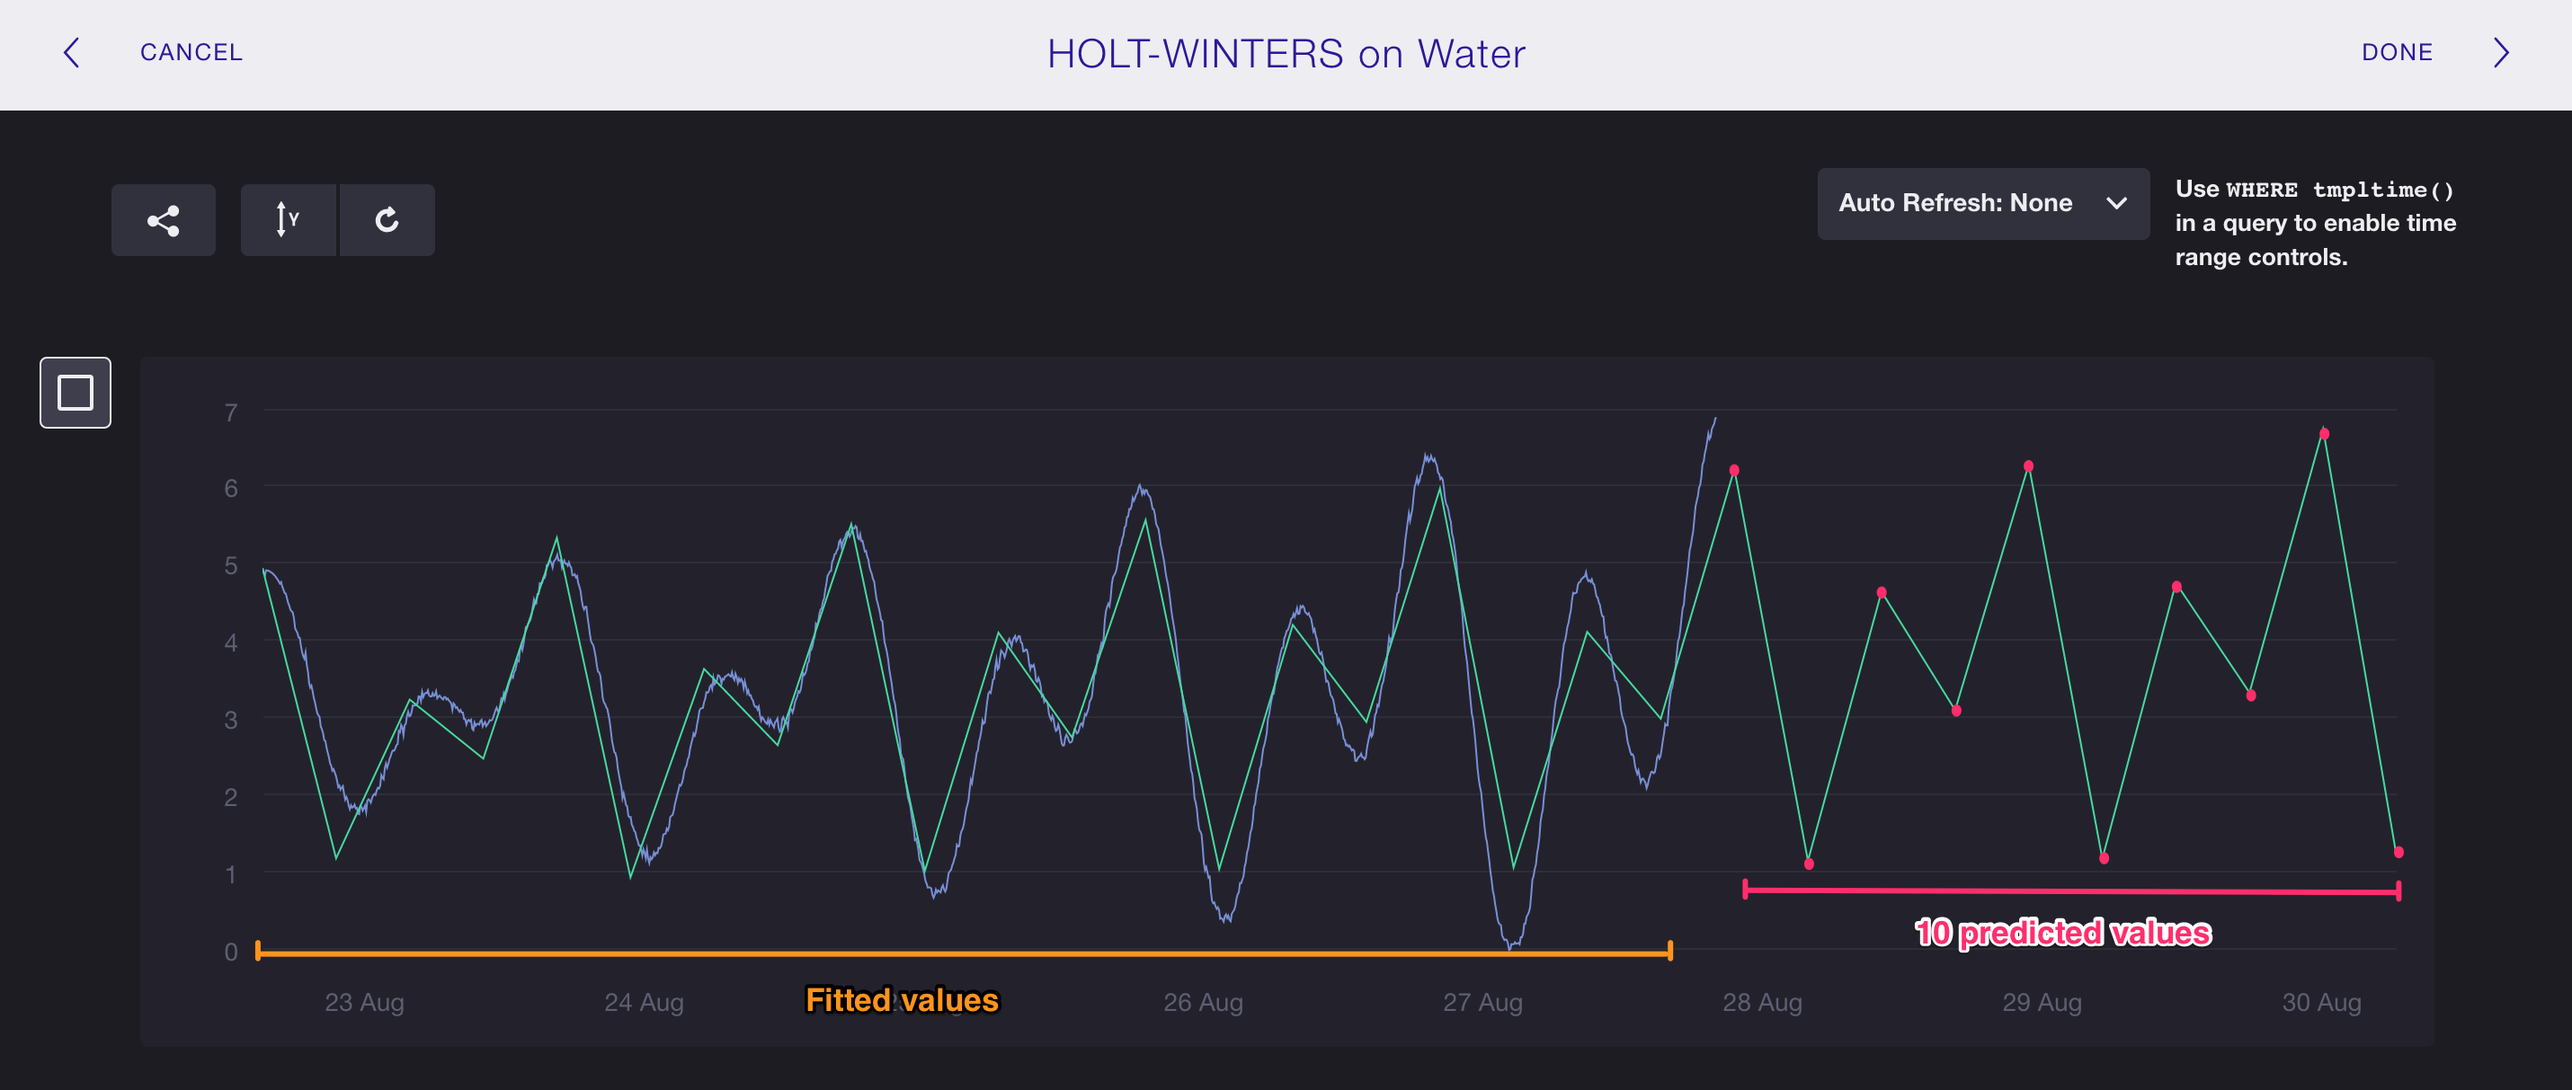
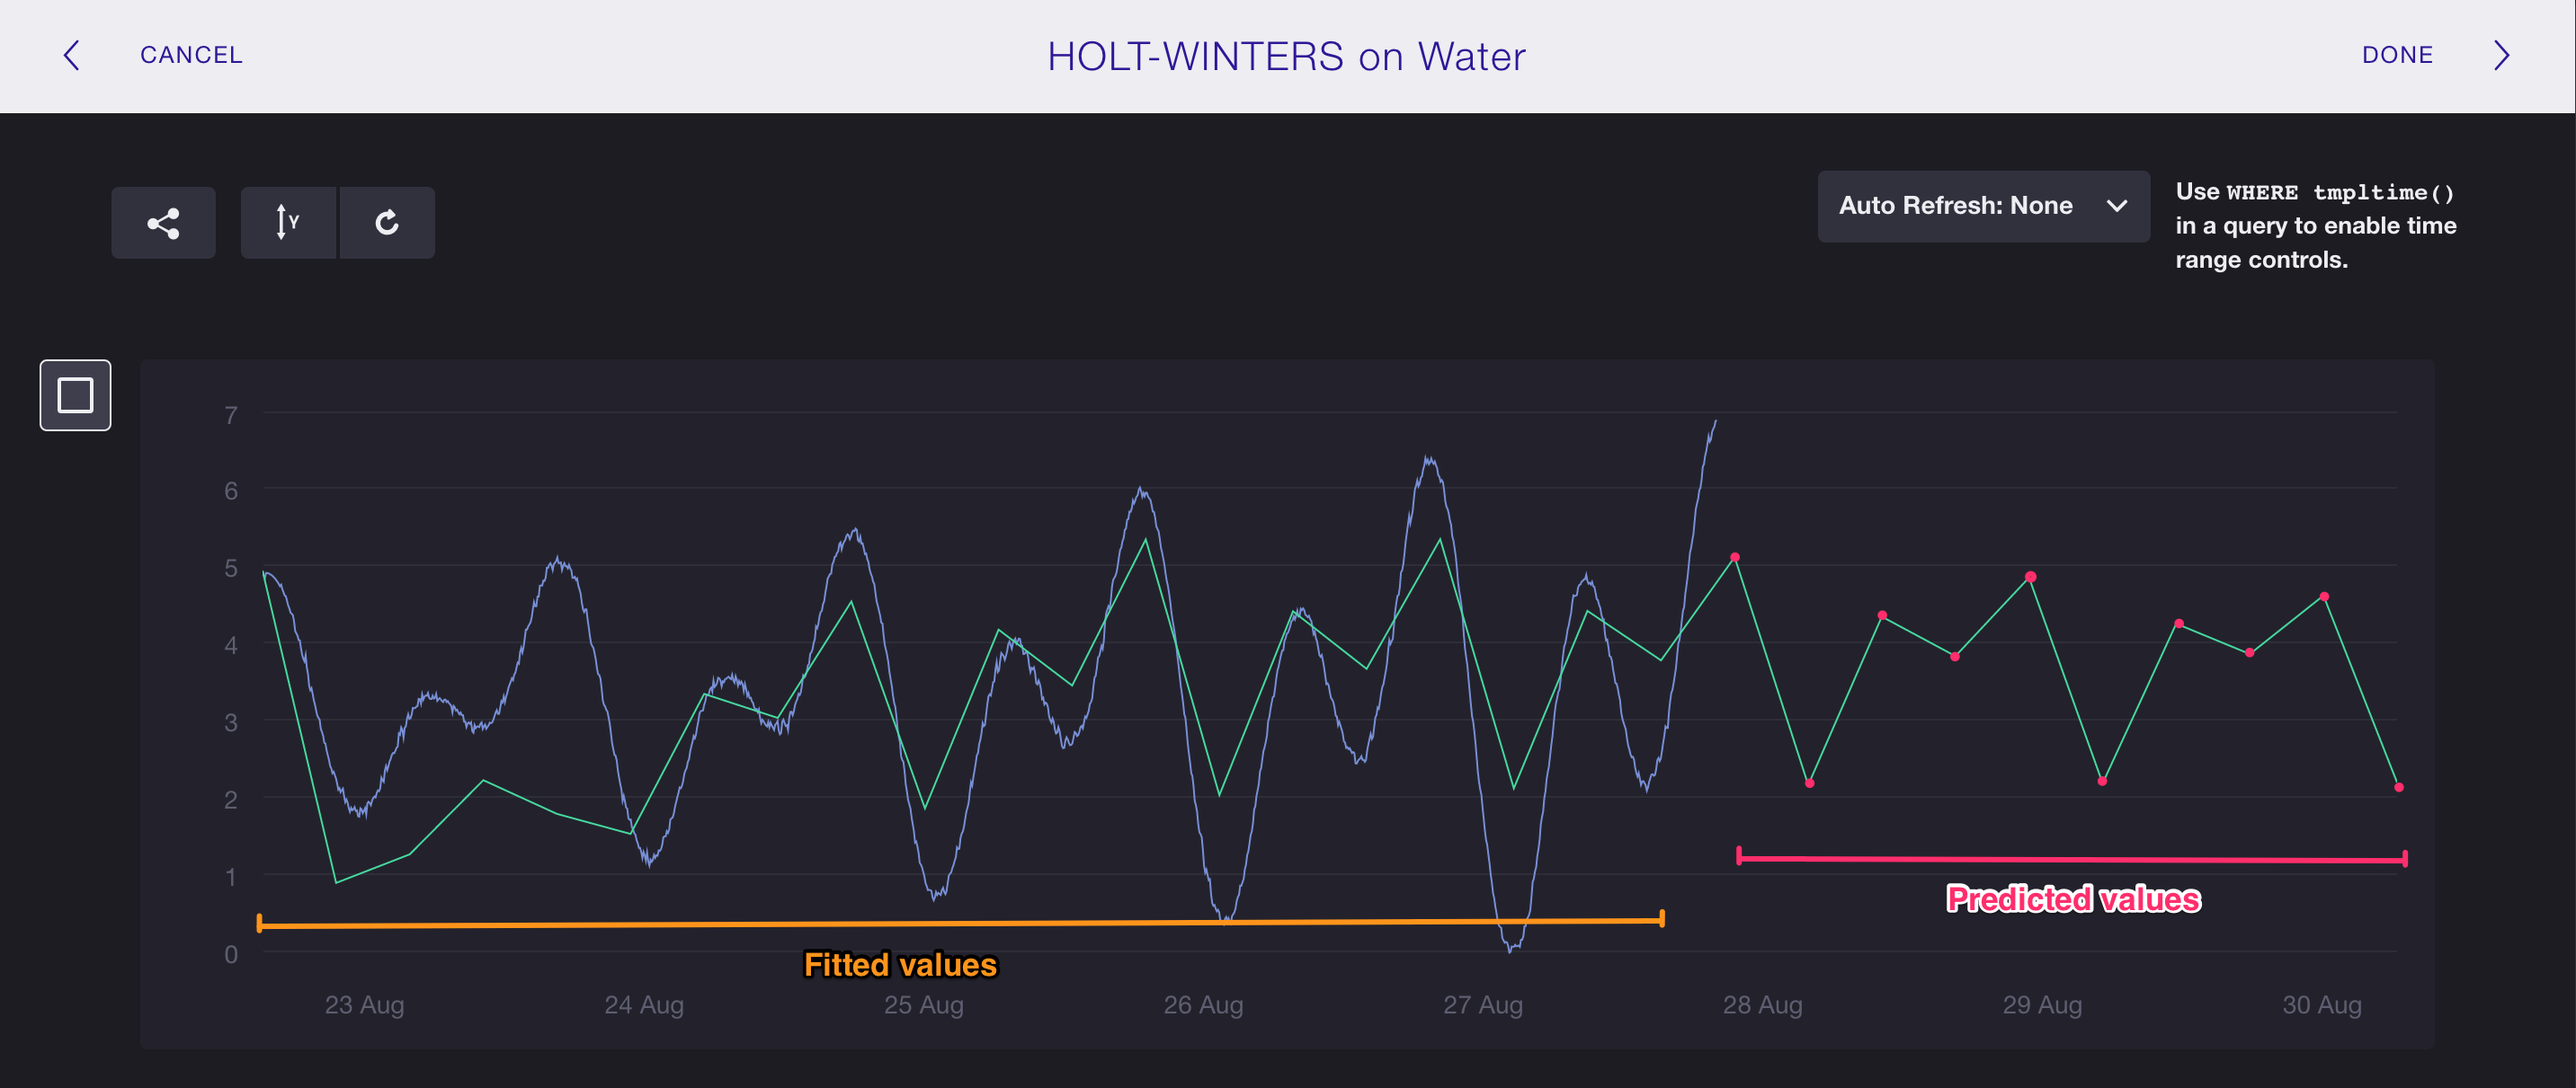
Update HOLT_WINTERS() documentation

diff --git a/content/influxdb/v1.0/query_language/functions.md b/content/influxdb/v1.0/query_language/functions.md
@@ -1755,7 +1755,8 @@ SELECT first("water_level") FROM "h2o_feet" WHERE "location"='santa_monica' and 
 
 Now that we have a query that matches the trends of the raw `water_level` data
 it's time to determine the seasonal pattern in the data.
-We'll use that information when we implement the `HOLT_WINTERS()` function.
+We'll use this information when we implement the `HOLT_WINTERS()` function in
+the next step.
 
 Focusing on the green line in the chart below, notice the pattern that repeats
 about every 25 hours and 15 minutes.
@@ -1765,7 +1766,7 @@ That's four data points per season, so `4` is our seasonal pattern argument.
 
 **Step 3: Include the HOLT_WINTERS() function**
 
-Now it's time to add the `HOLT_WINTERS()` function to our query.
+Now we add the `HOLT_WINTERS()` function to our query.
 Here, we'll use `HOLT_WINTERS_WITH_FIT()` so that the query results show both
 the fitted values and the predicted values.
 
@@ -1774,12 +1775,11 @@ first argument (`10`) tells the function to predict 10 data points.
 Each point will be `379m` apart, the same interval as the first argument in the
 `GROUP BY time()` clause.
 
-The second argument (`12`) is the seasonal pattern in the `water_level` data.
-Notice that we use `12` instead of `4`; sometimes using a multiple of the
-seasonal pattern yields better predicted values.
+The second argument (`4`) is the seasonal pattern that we determined in the
+previous step.
 
 ```
-SELECT holt_winters_with_fit(first(water_level),10,12) FROM h2o_feet where location='santa_monica' and time >= '2015-08-22 22:12:00' and time <= '2015-08-28 03:00:00' group by time(379m,348m)
+SELECT holt_winters_with_fit(first(water_level),10,4) FROM h2o_feet where location='santa_monica' and time >= '2015-08-22 22:12:00' and time <= '2015-08-28 03:00:00' group by time(379m,348m)
 ```
 
 ![Third step](/img/influxdb/hw_third_step.png)
